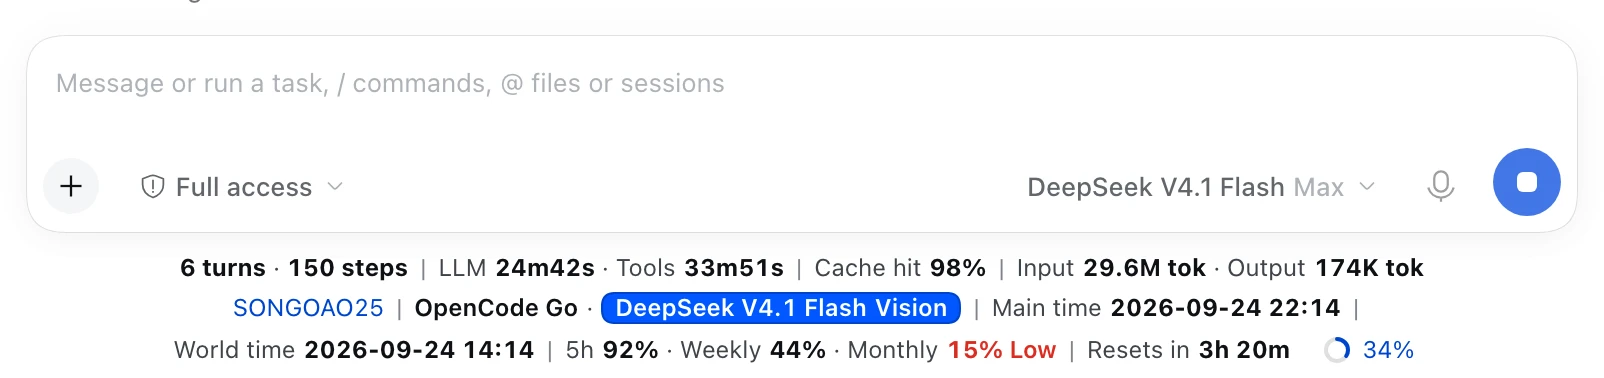
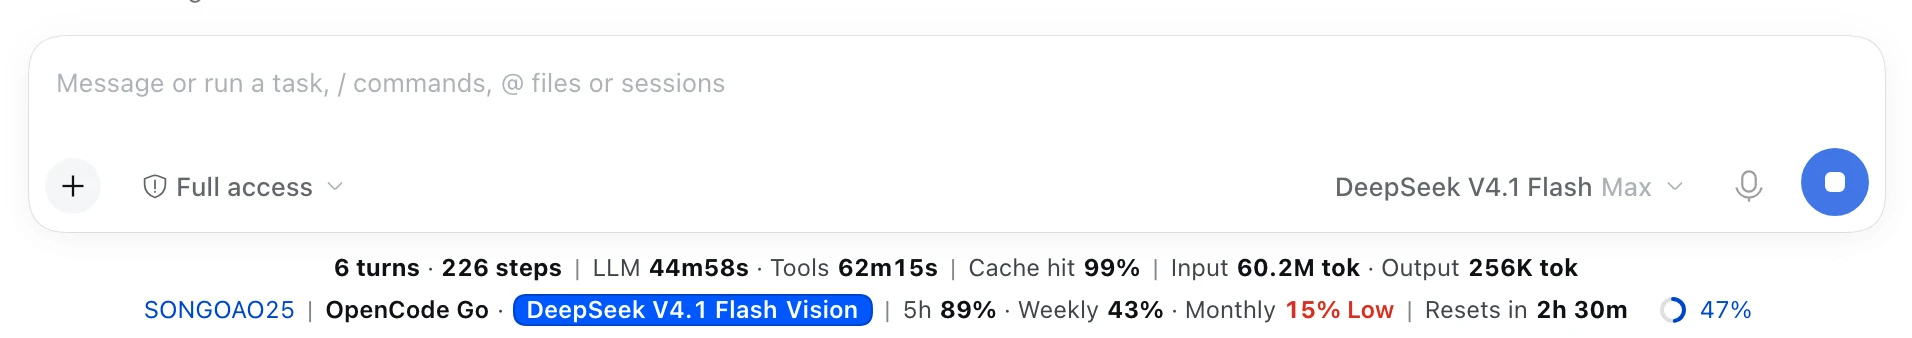
fix: 上下文圆环不再被挤成单独一行、面板不再透字；README 换新截图并重排
两处用户可见缺陷（2026-09-24 用户报）：
1. 简洁/完整模式下，行满换行时上下文圆环会被单独挤到下一行并居中，非常难看。
   根因：圆环作为主行的独立 flex 子项追加在末尾。修法：新增 attachContextMeter，把圆环与
   「最后一个内容节点」包进同一个 nowrap 尾巴（.bi-tail），换行时两者一起走，圆环永不单独成行。
2. 点开上下文面板时背景透明，面板文字与底下的信息栏叠在一起看不清。
   根因：面板底色引用了宿主 --dsw-specific-menu，而它本身带 alpha（浅 #f8f9fa94 / 深 #30313680），
   宿主菜单另有毛玻璃层；本面板悬在信息栏文字之上，必然透字。改用不透明层级底色
   var(--dsw-alias-bg-layer-3, #fff)（浅 #fff / 深 #353638，随主题走）并保留宿主阴影与细边框。

防复发：test-info-bar-rhythm 新增 13 条断言（尾巴规则 + attachContextMeter 行为断言 + 面板不透明），
test-static-client / test-field-config-client 的 D7 断言由「圆环是 row2 末位子项」改为「与末节点同组」，
意图不变（圆环仍在最右、错误标签仍在尾部）。反向验证：改回裸追加 → 2 条 FAIL，还原后 sha256 一致。

README（中英同构）：
- 简洁模式改为四态真实截图网格（浅色/深色 × 余额制/订阅额度制），并说明圆环始终与文字同行；
- 完整模式只保留一张（原生统计行 + 插件信息行，共两行，不含插件时间字段）；
- 删除独立的「深色模式」章节（已并入简洁模式网格）与计费模式里的单图；
- 修正两处与实现不符的文案：更新提醒改为「启动查一次 + 最多每 15 分钟复查」；Kimi 凭据去掉
  并不存在的 KIMI_API_KEY 回退（实现只读 MOONSHOT_API_KEY）。
- assets 换新图 13 对（26 张），旧图删除。

diff --git a/lib/client.js b/lib/client.js
@@ -586,6 +586,18 @@ function assembleInfoBarRow(groups, trailingErrorGroups, createElement) {
   return nodes;
 }
 
+// 上下文圆环的落位（2026-09-24 用户报「圆环被单独挤到下一行并居中」）：
+// 圆环原本作为主行的独立 flex 子项追加在末尾 —— 行满换行时它会独占一行，居中后非常难看。
+// 改为与「最后一个内容节点」一起包进同一个 nowrap 尾巴（.bi-tail）：要换行两者一起走，
+// 圆环永远不会孤零零占一行；没有内容节点时（只显示圆环）保持原样。
+function attachContextMeter(nodes, contextNode, createElement) {
+  if (!contextNode) return nodes.slice();
+  if (nodes.length === 0) return [contextNode];
+  const out = nodes.slice();
+  out[out.length - 1] = createElement('span', { key: 'tail', className: 'bi-tail' }, out[out.length - 1], contextNode);
+  return out;
+}
+
 // D6 用户拍板：全部字段隐藏 = 底栏彻底移除。此判定为纯函数供单测：
 // 注册表内没有任何可见字段，或渲染结果（原生行/主行/错误组）全空 → 信息栏整体不渲染，
 // 不留空行、占位高度或悬空分隔符；density 点击因无 DOM 而天然无副作用。
@@ -630,6 +642,8 @@ function installStyles() {
       /* 整条信息栏始终作为一个居中的内容组；不会超过上方对话框的内容宽度。 */
       .bi-root > .bi-row2 { flex: none; display: flex; flex-wrap: wrap; justify-content: center; align-items: center; width: 100%; }
       .bi-native-row > span, .bi-row2 > span { white-space: nowrap; }
+      /* 圆环与最后一个内容节点同组：换行时一起走，绝不单独占一行（见 attachContextMeter） */
+      .bi-tail { display: inline-flex; align-items: center; flex: 0 0 auto; max-width: 100%; white-space: nowrap; }
       /* 只有模型组可在窄宽度折行；服务商与模型详情仍成组，不会让圆点落在行尾。 */
       .bi-row2 > .bi-model-group { white-space: normal; }
       /* 组间 6px、模型内部圆点 4px：保留分组层级，同时避免 12px 信息栏被过大留白拉散。 */
@@ -681,7 +695,11 @@ function installStyles() {
       .bi-ctx-track { fill: none; stroke: var(--dsw-alias-border-l3, rgba(128, 128, 128, 0.35)); stroke-width: 2px; }
       .bi-ctx-fill { fill: none; stroke: currentColor; stroke-width: 2px; stroke-linecap: round; }
       /* 构成明细面板：与原生 ContextMeter 面板同构（264px 宽 / 12px 内边距 / 12px 圆角 / 4px 构成条）。 */
-      .bi-ctx-panel { z-index: 1100; box-sizing: border-box; width: min(264px, calc(100vw - 24px)); padding: 12px; border: 0; border-radius: 12px; background: var(--dsw-specific-menu, #fff); color: var(--dsw-alias-label-secondary, #5a6169); box-shadow: var(--dsw-elevation-prominent, 0 8px 24px rgba(0, 0, 0, 0.18)); font-size: 12px; line-height: 20px; cursor: default; position: fixed; }
+      /* 面板底色必须不透明（2026-09-24 用户报「面板透明、文字和底下的信息栏叠在一起看不清」）：
+         宿主 --dsw-specific-menu 是带 alpha 的色（浅 #f8f9fa94 / 深 #30313680），且宿主菜单另有毛玻璃层，
+         本面板悬在信息栏文字之上，直接用它必然透字。改用不透明的层级底色（浅 #fff / 深 #353638，随主题走），
+         并保留宿主阴影；不引用任何可能带 alpha 的 token。 */
+      .bi-ctx-panel { z-index: 1100; box-sizing: border-box; width: min(264px, calc(100vw - 24px)); padding: 12px; border: 0.5px solid var(--dsw-alias-border-l4, rgba(128, 128, 128, 0.28)); border-radius: 12px; background: var(--dsw-alias-bg-layer-3, #fff); color: var(--dsw-alias-label-secondary, #5a6169); box-shadow: var(--dsw-elevation-prominent, 0 8px 24px rgba(0, 0, 0, 0.18)); font-size: 12px; line-height: 20px; cursor: default; position: fixed; }
       .bi-ctx-panel-header { display: flex; align-items: center; gap: 6px; }
       .bi-ctx-panel-headline { color: var(--dsw-alias-label-tertiary, #8a9099); }
       .bi-ctx-panel-headline:empty { display: none; }
@@ -3490,7 +3508,7 @@ module.exports = {
          context: contextInfo,
          breakdown: breakdownProj,
        });
-       const row2 = React.createElement('div', { id: 'dsh-bottom-info-bar-primary', className: 'bi-row2' }, ...nodes, contextNode);
+       const row2 = React.createElement('div', { id: 'dsh-bottom-info-bar-primary', className: 'bi-row2' }, ...attachContextMeter(nodes, contextNode, React.createElement));
 
       let row1 = null;
       if (statsProj) {

diff --git a/src/client-bundle.js b/src/client-bundle.js
@@ -513,6 +513,18 @@ function assembleInfoBarRow(groups, trailingErrorGroups, createElement) {
   return nodes;
 }
 
+// 上下文圆环的落位（2026-09-24 用户报「圆环被单独挤到下一行并居中」）：
+// 圆环原本作为主行的独立 flex 子项追加在末尾 —— 行满换行时它会独占一行，居中后非常难看。
+// 改为与「最后一个内容节点」一起包进同一个 nowrap 尾巴（.bi-tail）：要换行两者一起走，
+// 圆环永远不会孤零零占一行；没有内容节点时（只显示圆环）保持原样。
+function attachContextMeter(nodes, contextNode, createElement) {
+  if (!contextNode) return nodes.slice();
+  if (nodes.length === 0) return [contextNode];
+  const out = nodes.slice();
+  out[out.length - 1] = createElement('span', { key: 'tail', className: 'bi-tail' }, out[out.length - 1], contextNode);
+  return out;
+}
+
 // D6 用户拍板：全部字段隐藏 = 底栏彻底移除。此判定为纯函数供单测：
 // 注册表内没有任何可见字段，或渲染结果（原生行/主行/错误组）全空 → 信息栏整体不渲染，
 // 不留空行、占位高度或悬空分隔符；density 点击因无 DOM 而天然无副作用。
@@ -557,6 +569,8 @@ function installStyles() {
       /* 整条信息栏始终作为一个居中的内容组；不会超过上方对话框的内容宽度。 */
       .bi-root > .bi-row2 { flex: none; display: flex; flex-wrap: wrap; justify-content: center; align-items: center; width: 100%; }
       .bi-native-row > span, .bi-row2 > span { white-space: nowrap; }
+      /* 圆环与最后一个内容节点同组：换行时一起走，绝不单独占一行（见 attachContextMeter） */
+      .bi-tail { display: inline-flex; align-items: center; flex: 0 0 auto; max-width: 100%; white-space: nowrap; }
       /* 只有模型组可在窄宽度折行；服务商与模型详情仍成组，不会让圆点落在行尾。 */
       .bi-row2 > .bi-model-group { white-space: normal; }
       /* 组间 6px、模型内部圆点 4px：保留分组层级，同时避免 12px 信息栏被过大留白拉散。 */
@@ -608,7 +622,11 @@ function installStyles() {
       .bi-ctx-track { fill: none; stroke: var(--dsw-alias-border-l3, rgba(128, 128, 128, 0.35)); stroke-width: 2px; }
       .bi-ctx-fill { fill: none; stroke: currentColor; stroke-width: 2px; stroke-linecap: round; }
       /* 构成明细面板：与原生 ContextMeter 面板同构（264px 宽 / 12px 内边距 / 12px 圆角 / 4px 构成条）。 */
-      .bi-ctx-panel { z-index: 1100; box-sizing: border-box; width: min(264px, calc(100vw - 24px)); padding: 12px; border: 0; border-radius: 12px; background: var(--dsw-specific-menu, #fff); color: var(--dsw-alias-label-secondary, #5a6169); box-shadow: var(--dsw-elevation-prominent, 0 8px 24px rgba(0, 0, 0, 0.18)); font-size: 12px; line-height: 20px; cursor: default; position: fixed; }
+      /* 面板底色必须不透明（2026-09-24 用户报「面板透明、文字和底下的信息栏叠在一起看不清」）：
+         宿主 --dsw-specific-menu 是带 alpha 的色（浅 #f8f9fa94 / 深 #30313680），且宿主菜单另有毛玻璃层，
+         本面板悬在信息栏文字之上，直接用它必然透字。改用不透明的层级底色（浅 #fff / 深 #353638，随主题走），
+         并保留宿主阴影；不引用任何可能带 alpha 的 token。 */
+      .bi-ctx-panel { z-index: 1100; box-sizing: border-box; width: min(264px, calc(100vw - 24px)); padding: 12px; border: 0.5px solid var(--dsw-alias-border-l4, rgba(128, 128, 128, 0.28)); border-radius: 12px; background: var(--dsw-alias-bg-layer-3, #fff); color: var(--dsw-alias-label-secondary, #5a6169); box-shadow: var(--dsw-elevation-prominent, 0 8px 24px rgba(0, 0, 0, 0.18)); font-size: 12px; line-height: 20px; cursor: default; position: fixed; }
       .bi-ctx-panel-header { display: flex; align-items: center; gap: 6px; }
       .bi-ctx-panel-headline { color: var(--dsw-alias-label-tertiary, #8a9099); }
       .bi-ctx-panel-headline:empty { display: none; }
@@ -3414,7 +3432,7 @@ module.exports = {
          context: contextInfo,
          breakdown: breakdownProj,
        });
-       const row2 = React.createElement('div', { id: 'dsh-bottom-info-bar-primary', className: 'bi-row2' }, ...nodes, contextNode);
+       const row2 = React.createElement('div', { id: 'dsh-bottom-info-bar-primary', className: 'bi-row2' }, ...attachContextMeter(nodes, contextNode, React.createElement));
 
       let row1 = null;
       if (statsProj) {

diff --git a/README.md b/README.md
@@ -20,9 +20,16 @@ A DeepSeek Harness plugin that replaces the stats row under the composer with on
 | Spend | this session (including subagents), today, last 30 days, all time |
 | Extras | main time, world time, custom text |
 
-Click the bar to switch between **full** and **compact** mode; colors follow DSH's light or dark theme.
+The bar has two densities — click it to switch. **Full** keeps DSH's native stats row above the plugin row; **compact** folds everything into one line. Both follow DSH's light or dark theme, and the context ring always stays on the same line as the text before it.
 
-![Bottom Info Bar in compact mode](assets/bar-compact.webp)
+## Compact mode
+
+Four real states — light and dark, balance and subscription quota:
+
+| Light | Dark |
+|---|---|
+| ![Balance mode, light theme](assets/bar-compact-light-balance.webp) | ![Balance mode, dark theme](assets/bar-compact-dark-balance.webp) |
+| ![Subscription quota, light theme](assets/bar-compact-light-subscription.webp) | ![Subscription quota, dark theme](assets/bar-compact-dark-subscription.webp) |
 
 ## Three billing modes
 
@@ -32,8 +39,6 @@ The bar follows the active session and picks the mode from the provider. The thr
 
 Shows the real balance from the provider's own API. It refetches when the bar opens, the page refreshes or the provider changes, then polls every 60 seconds; a failed refresh keeps the last known figure on screen. Below 20 (in the account's currency) the amount and a **Low** label turn red.
 
-![Balance mode](assets/bar-balance.webp)
-
 ### Subscription quota
 
 Shows the remaining quota per window (5-hour / weekly / monthly) and a countdown to the next reset — both always come from the same window, so they can never disagree. Windows show **remaining** percent by default and can be switched to **used** in settings; the low-quota warning always follows the remaining ≤ 20% rule. Compact mode prefers the shortest available window (5-hour → weekly → monthly).
@@ -41,12 +46,6 @@ Shows the remaining quota per window (5-hour / weekly / monthly) and a countdown
 ### Cloud billing
 
 Shows this month's real spend from the provider's official billing API, for example `Together | This month $12.34` or `AWS Bedrock | This month $45.60 · Budget 46%`. Cloudflare also shows the daily free-quota remainder with a UTC-midnight reset countdown when the API actually reports a free allowance.
-
-## Dark mode
-
-Colors adapt to DSH's theme — there is no separate setting.
-
-![Dark mode](assets/bar-dark.webp)
 
 ## Install
 
@@ -119,7 +118,7 @@ The bar detects the provider from DSH's current model — no configuration. Set 
 |---|---|---|
 | deepseek / deepseek-official | DeepSeek | `DEEPSEEK_API_KEY` |
 | openai | OpenAI | `OPENAI_API_KEY` — estimated from your spending rate; there is no public balance API |
-| moonshotai / moonshotai-cn / kimi-coding | Kimi | `MOONSHOT_API_KEY` (fallback `KIMI_API_KEY`) |
+| moonshotai / moonshotai-cn / kimi-coding | Kimi | `MOONSHOT_API_KEY` |
 | openrouter | OpenRouter | `OPENROUTER_API_KEY` |
 | stepfun | StepFun | `STEPFUN_API_KEY` |
 | xiaomi | Xiaomi MiMo | `XIAOMI_API_KEY` |
@@ -152,7 +151,7 @@ Every model response is recorded (usage × unit price) and aggregated four ways:
 
 ## Updating
 
-Once per DSH startup the plugin checks npm for a newer version. When one exists, a red **Update available** label appears in the bar: click it to copy the update command, run it in a terminal, then restart `dsh web`.
+The plugin checks npm for a newer version at startup and re-checks at most every 15 minutes. When one exists, a red **Update available** label appears in the bar: click it to copy the update command, run it in a terminal, then restart `dsh web`.
 
 | Installed via | Command |
 |---|---|

diff --git a/README.zh-CN.md b/README.zh-CN.md
@@ -20,9 +20,16 @@ DeepSeek Harness 插件：把输入框下方那行统计栏换成一行信息栏
 | 花费 | 本会话（含子代理）、今天、近 30 天、累计 |
 | 其它 | 主时间、世界时间、自定义文字 |
 
-点击信息栏可在**完整**与**简洁**之间切换；配色跟随 DSH 的深色或浅色主题。
+信息栏有两种密度，点击即可切换：**完整**保留 DSH 原生统计行，插件信息另起一行；**简洁**把全部内容收成一行。两种密度都跟随 DSH 的深色/浅色主题，上下文圆环始终与前面的文字同一行，不会单独折行。
 
-![信息栏简洁模式](assets/bar-compact.zh-CN.webp)
+## 简洁模式
+
+四种真实状态：浅色与深色、余额制与订阅额度制：
+
+| 浅色 | 深色 |
+|---|---|
+| ![余额制·浅色](assets/bar-compact-light-balance.zh-CN.webp) | ![余额制·深色](assets/bar-compact-dark-balance.zh-CN.webp) |
+| ![订阅额度制·浅色](assets/bar-compact-light-subscription.zh-CN.webp) | ![订阅额度制·深色](assets/bar-compact-dark-subscription.zh-CN.webp) |
 
 ## 三种计费模式
 
@@ -32,8 +39,6 @@ DeepSeek Harness 插件：把输入框下方那行统计栏换成一行信息栏
 
 显示服务商官方接口返回的真实余额。信息栏打开、页面刷新或切换服务商时立即重查，之后每 60 秒轮询一次；刷新失败时保留上一次的数值。余额低于 20（按账户币种）时，金额与**低**标记转红。
 
-![余额制](assets/bar-balance.zh-CN.webp)
-
 ### 订阅额度制
 
 显示各窗口剩余额度（5 小时 / 周 / 月）与距下次重置的倒计时——两者始终取自同一个窗口，不会互相矛盾。窗口默认按**剩余**显示百分比，可在设置里切换为**已用**；低额度告警始终按剩余 ≤ 20% 判定。简洁模式优先显示时长最短的可用窗口（5 小时 → 周 → 月）。
@@ -41,12 +46,6 @@ DeepSeek Harness 插件：把输入框下方那行统计栏换成一行信息栏
 ### 云账单制
 
 显示官方账单接口返回的本月真实花费，例如 `Together | 本月 $12.34`、`AWS Bedrock | 本月 $45.60 · 预算 46%`。Cloudflare 还会在接口确实返回免费额度时，显示每日免费额度剩余与 UTC 零点重置倒计时。
-
-## 深色模式
-
-配色跟随 DSH 主题，无需单独设置。
-
-![深色模式](assets/bar-dark.zh-CN.webp)
 
 ## 安装
 
@@ -119,7 +118,7 @@ cd dsh-bottom-info-bar
 |---|---|---|
 | deepseek / deepseek-official | DeepSeek | `DEEPSEEK_API_KEY` |
 | openai | OpenAI | `OPENAI_API_KEY` —— 按消耗速度估算；官方没有公开余额接口 |
-| moonshotai / moonshotai-cn / kimi-coding | Kimi | `MOONSHOT_API_KEY`（回退 `KIMI_API_KEY`） |
+| moonshotai / moonshotai-cn / kimi-coding | Kimi | `MOONSHOT_API_KEY` |
 | openrouter | OpenRouter | `OPENROUTER_API_KEY` |
 | stepfun | StepFun | `STEPFUN_API_KEY` |
 | xiaomi | 小米 MiMo | `XIAOMI_API_KEY` |
@@ -152,7 +151,7 @@ cd dsh-bottom-info-bar
 
 ## 更新
 
-插件在一次完整的 DSH 启动后检查一次 npm 上的新版本。有新版时，信息栏出现红色**新版本提醒**标签：点击即可复制更新命令，到终端执行后重启 `dsh web`。
+插件在 DSH 启动时检查一次 npm 上的新版本，之后最多每 15 分钟复查一次。有新版时，信息栏出现红色**新版本提醒**标签：点击即可复制更新命令，到终端执行后重启 `dsh web`。
 
 | 安装方式 | 命令 |
 |---|---|
